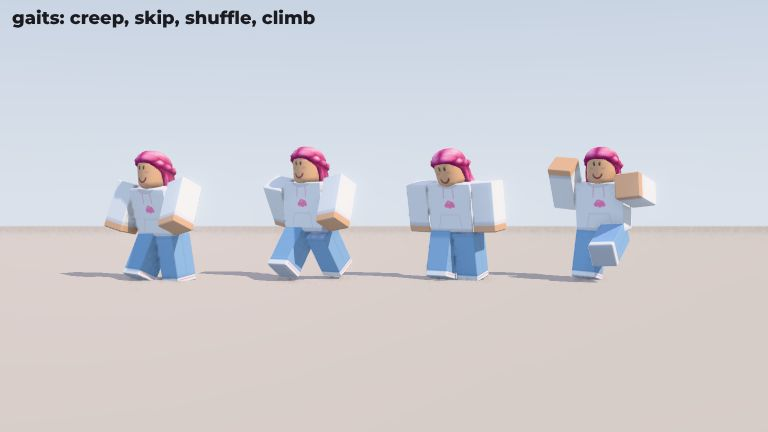
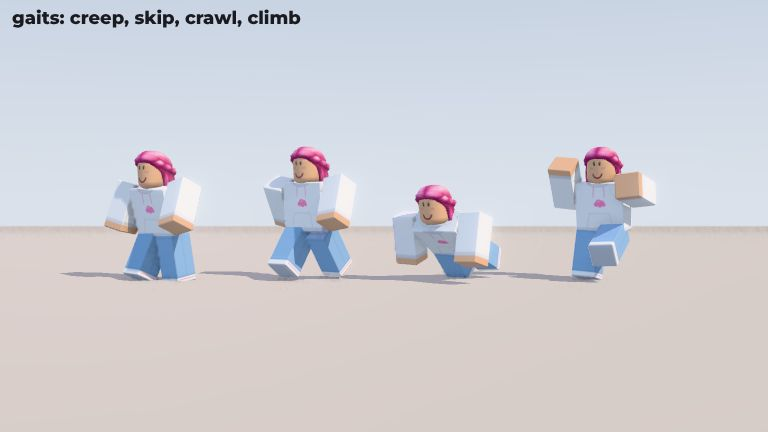
kit-cast: crawl gait, request answers, status READY

Changed region(s): [[0.4375, 0.331, 0.6562, 0.662], [0.2188, 0.0, 0.4062, 0.0602]]

diff --git a/roblox-shorts-studio/projects/i-secretly-lived-in-my-enemys-house/web/kit/cast.js b/roblox-shorts-studio/projects/i-secretly-lived-in-my-enemys-house/web/kit/cast.js
@@ -697,7 +697,8 @@ export function gesture(actor, name, side = 'R', mix = 1) {
 // Where the root goes for a seat whose top is at `seatY` (sit_* poses: thighs horizontal, hips 1.5 above the root).
 export const seatY = (actor, seatTop) => seatTop - 1.5 * actor.scale;
 // Distance-driven gaits for posture(): phase = distance travelled / STRIDE (locomotion.js), so feet never slide.
-// kind: 'walk', 'run', 'creep' (sneaky tiptoe, bent forward), 'skip' (Lily), 'shuffle' (sleepy Max), 'climb' (ladder,
+// kind: 'walk', 'run', 'creep' (sneaky tiptoe, bent forward), 'skip' (Lily), 'shuffle' (sleepy Max), 'crawl' (hands and
+// knees), 'climb' (ladder,
 // facing the rungs: hands and feet alternate; phase = height climbed / 1.6).
 export function gait(kind, phase) {
   const c = Math.sin(phase * Math.PI * 2), c2 = Math.sin(phase * Math.PI * 4);
@@ -706,6 +707,7 @@ export function gait(kind, phase) {
   if (kind === 'creep') return { 'Leg.L': [16 * c - 8, 0, -3], 'Leg.R': [-16 * c - 8, 0, 3], 'Arm.L': [-34 - 8 * c, 0, -14], 'Arm.R': [-34 + 8 * c, 0, 14], Torso: [16, 3 * c, 0], Head: [-12, 0, 0], drop: 0.12 };
   if (kind === 'skip') return { 'Leg.L': [36 * c, 0, 0], 'Leg.R': [-36 * c, 0, 0], 'Arm.L': [-30 * c, 0, -10], 'Arm.R': [30 * c, 0, 10], Torso: [4, 0, 0], drop: -0.25 * Math.abs(c2) };
   if (kind === 'shuffle') return { 'Leg.L': [12 * c, 0, 0], 'Leg.R': [-12 * c, 0, 0], 'Arm.L': [-4 * c, 0, -2], 'Arm.R': [4 * c, 0, 2], Torso: [10, 0, 0], Head: [12, 0, 4] };
+  if (kind === 'crawl') return { 'Leg.L': [60 + 10 * c, 0, -4], 'Leg.R': [60 - 10 * c, 0, 4], 'Arm.L': [-60 - 14 * c, 0, -4], 'Arm.R': [-60 + 14 * c, 0, 4], Torso: [60, 0, 0], Head: [-48, 0, 0], drop: 0.57 };
   if (kind === 'climb') return { 'Leg.L': [-36 - 26 * c, 0, -3], 'Leg.R': [-36 + 26 * c, 0, 3], 'Arm.L': [-128 + 22 * c, 0, -6], 'Arm.R': [-128 - 22 * c, 0, 6], Torso: [6, 0, 0] };
   throw new Error(`Unknown gait "${kind}"`);
 }

diff --git a/roblox-shorts-studio/projects/i-secretly-lived-in-my-enemys-house/web/kit/cast_turnaround.js b/roblox-shorts-studio/projects/i-secretly-lived-in-my-enemys-house/web/kit/cast_turnaround.js
@@ -32,7 +32,7 @@ export const SHEETS = [
   ['gestures R: point, hand_over_mouth (L), eye_wipe (L), phone_ear', 'gest', [['point', 'R'], ['hand_over_mouth', 'L'], ['eye_wipe', 'L'], ['phone_ear', 'R']]],
   ['gestures: hand_on_neck, hair_pat, flashlight_chin, thumb_to_chest', 'gest', [['hand_on_neck', 'R'], ['hair_pat', 'R'], ['flashlight_chin', 'R'], ['thumb_to_chest', 'R']]],
   ['chin_on_hand, knock, hand_on_hip, finger_up', 'gest', [['@chin_on_hand', 'R'], ['knock', 'R'], ['hand_on_hip', 'R'], ['finger_up', 'R']]],
-  ['gaits: creep, skip, shuffle, climb', 'gait', ['creep', 'skip', 'shuffle', 'climb']],
+  ['gaits: creep, skip, crawl, climb', 'gait', ['creep', 'skip', 'crawl', 'climb']],
   ['lie_back, scarecrow, sheet + L arm at shoulder, blush', 'misc', []],
   ['blush close-up (Skye nervous, Lily nervous)', 'blush', [], 'idle', { y: 4.2, dist: 8 }],
 ];

diff --git a/roblox-shorts-studio/projects/i-secretly-lived-in-my-enemys-house/production/requests.md b/roblox-shorts-studio/projects/i-secretly-lived-in-my-enemys-house/production/requests.md
@@ -54,3 +54,4 @@
 - [for kit-pipeline, from ch06] `flashlightBeam` for a torch held under the chin (Ch6 opening, Skye): the cone mesh sits right in front of her face and the spot blows it out at MCU. Could `flashlightBeam(stage, { cone: false, intensity, distance })` (or a `chin` preset: a soft warm up-light, short range, no visible cone) be added? I aim it from the palm; I'll switch as soon as it exists.
 - [for kit-sets-c] (from ch11) mark names web/ch11.js looks up (it falls back until they exist): `stairs_top`, `stairs_foot`, `stove`, `pan` (pan surface on the hob, y = pan top), `island_end`, `island_stool_1..3` (sit marks: pos = where the actor root goes when seated with K.putOn(..., { sit: true }) and the pack `sit` anim, heading facing the island-front camera side), `fridge`, `island_plate_2`, `island_plate_3`, `island_phone_3` (island-top spots, y = top surface), `backpack_floor_3`; cams `stairs_wide`, `stove_ms`, `island_two`, `island_two_seated`, `island_wide`, `fridge_cu` (any you skip, ch11 frames itself with camOn/twoShot).
 - [from kit-sets-b, answer to ch05/ch07/ch08/ch09] Attic is READY on main (`web/kit/sets/attic.js`, README "sets/attic.js"). Every mark/cam/flag you asked for exists under your names (aliases where mine differ). Notes: **ch08** — `hatch_top` is the standing spot on the floor at the hatch (ch05/ch07 use it that way); head-and-shoulders up through the hatch is `hatch_head_lily` (or `hatch_head` / `hatchRise(scale, k)`); `setState({ chapter: 8 })` already is night with the flashlight standing lit, vacuum, pumpkin on the lid, tea set. **ch05** — tea set: `setState({ chapter: 5, tea: true })` from S12 (or `teaSet: true`); backpack in the nest: `backpack: true`; hobby horse in a hand: `hobbyHorse: 'none'`; tea_skye is on the nest side facing +z, tea_lily on the hatch side facing -z; all your cams named (except `horse_pov`: derive it). **ch07** — `setState({ chapter: 7, pumpkin: false })` (vacuum is off by default in Ch7; `vacuum: true` at the end), lid `setHatch(k)` or `hatch: k`. **ch09** — `maxBox: 'open'` (or `oldStuffOpen: true`), drawing shown on top inside by default in Ch9 (`drawing: 'none'` while it's in Skye's hands), `marks.old_stuff_inside`, chair rock `rock: a` or `rockChair(a)`. All setState calls are stateless (chapter defaults + what you pass), so call it every frame.
+- [from kit-cast, answers to ch01-ch11] cast.js is on main (see web/kit/README.md "cast.js"; check sheets in production/previews/kit-cast/). All faces you listed are preloaded for everyone, plus `confused` and `mouth_small`. Provided: `posture()` poses sit_chair / sit_upright / sit_slump / sit_desk_arms / chin_on_hand / sit_cross / kneel / kneel_up / crouch / lie_back / shock / scarecrow (use `mix` to bring the arms down) / arms_folded / hug_teddy / shrug / lean_in / lean_back / ear_to_door / hip_bend (Dad nose to nose) + `seatY()` for seats; one-arm `gesture()`: point, point_up, reach_up, finger_up, knock, tap, hand_over_mouth, eye_wipe, thumb_to_chest, hand_on_hip, hand_on_neck, hair_pat, phone_ear, chin_hand, hold_out, flashlight_chin, wave, hand_hold, cup_hold; distance-driven `gait()`: walk, run, creep, skip, shuffle, crawl, climb (ladder; you place the feet on your rungs); `blush(actor, 0..1)`; `speak(..., { whisper: true })`; `holdTeddy(lily, 'R'|'L'|'hug'|'free')` (teddy = kit-props' mesh per the decision); `dress(skye, 'skye_hoodie')` drops the backpack and the sheet (ch05); `skye_sheet` pink lock at her LEFT, readable in a head CU, `sheetLift(skye, u)` for the pull (ch10), `dress(skye, 'glow_sticks')` = kit-props' wrist bands; Dad's robe has slippers (ch03). Not provided: a cheeks-full face (ch03: use `happy` + a chew head-bob), Max bedhead (ch02, optional), a two-person hand-hold run (ch06: `gesture(skye, 'hand_hold', 'L')` + `gesture(lily, 'hand_hold', 'R')` and keep them side by side), the cobweb (kit-props, ch04). Ask here if a pose doesn't read in your shot and I'll tune it.

diff --git a/roblox-shorts-studio/projects/i-secretly-lived-in-my-enemys-house/web/kit/README.md b/roblox-shorts-studio/projects/i-secretly-lived-in-my-enemys-house/web/kit/README.md
@@ -188,7 +188,7 @@ back per look; poses; gestures; gaits; blush): `production/previews/kit-cast/*.j
 | `holdTeddy(lily, mode)` | `'R'` / `'L'` (kit-props `hold(teddy, lily, hand, 'side')`, hanging at her side), `'hug'` (on her chest; pose with `posture(lily, 'hug_teddy')`), `'free'` (detached: add `C.lily.teddy` to the set and place it, e.g. beside her at the tea party). |
 | `POSES`, `posture(actor, name \| dict, { mix, reset, extra })` | sets the bones (rig.js angle convention, degrees) and returns the root drop. Floor poses: `const d = K.posture(C.skye, 'sit_cross'); C.skye.root.position.y = floorY - d`. Seats: `K.posture(C.max, 'sit_chair'); C.max.root.position.y = K.seatY(C.max, seatTopY)`. Names: `stand`, `sit_chair`, `sit_upright`, `sit_slump`, `sit_desk_arms`, `chin_on_hand`, `sit_cross`, `kneel`, `kneel_up`, `crouch`, `lie_back`, `shock`, `scarecrow` (arms out at shoulder height; `mix` brings them down), `arms_folded`, `hug_teddy`, `shrug`, `lean_in`, `lean_back`, `ear_to_door`, `hip_bend` (Dad leaning in nose to nose). `mixAngles(a, b, u)` blends two dicts. |
 | `ARM_GESTURES`, `gesture(actor, name, side, mix)` | one arm, layered over the current pose (call after `posture`/`robloxPose`): `K.gesture(C.skye, 'hand_over_mouth', 'L')`. Names: point, point_up, reach_up, finger_up, knock, tap, hand_over_mouth, eye_wipe, thumb_to_chest, hand_on_hip, hand_on_neck, hair_pat, phone_ear, chin_hand, hold_out, flashlight_chin, wave (static; `waveArm` in web/lib/gestures.js animates), hand_hold, cup_hold; or pass `[x, y, z]`. `mix` slerps from the current arm. |
-| `gait(kind, phase)` | distance-driven gaits as a pose dict: `const m = travel(a, b, t0, t, 6); K.posture(C.skye, K.gait('creep', m.anim))`. Kinds: `walk`, `run`, `creep` (sneaky, bent forward), `skip` (Lily; returns a negative `drop` = hop), `shuffle` (sleepy Max), `climb` (ladder, facing the rungs; phase = height climbed / 1.6). Use the drop: `root.y = floorY - drop`. |
+| `gait(kind, phase)` | distance-driven gaits as a pose dict: `const m = travel(a, b, t0, t, 6); K.posture(C.skye, K.gait('creep', m.anim))`. Kinds: `walk`, `run`, `creep` (sneaky, bent forward), `skip` (Lily; returns a negative `drop` = hop), `shuffle` (sleepy Max),  `crawl` (hands and knees), `climb` (ladder, facing the rungs; phase = height climbed / 1.6). Use the drop: `root.y = floorY - drop`. |
 | `SCALE`, `COLORS`, `SPEAKER`, `EXTRA_LOOKS` | constants (Dad 1.12, Lily 0.78; hair and glow colours; caption speaker labels; the extras' looks). |
 
 Notes: walk in the sheet with the arms still or barely swinging (the drape bulges for legs and arms, but a big arm swing

diff --git a/roblox-shorts-studio/projects/i-secretly-lived-in-my-enemys-house/production/status/kit-cast.md b/roblox-shorts-studio/projects/i-secretly-lived-in-my-enemys-house/production/status/kit-cast.md
@@ -1,3 +1,8 @@
-STATUS: WORKING
+STATUS: READY
 
-kit-cast: building web/kit/cast.js (loadCast, dress, speak, FACES, WARDROBE). Stub first, then looks + turnaround sheets.
+kit-cast: web/kit/cast.js on main.
+- loadCast/dress/speak/FACES/WARDROBE + POSES/posture/gesture/gait/seatY/blush/holdTeddy/sheetLift; README section in web/kit/README.md.
+- Every wardrobe id checked on turnaround sheets (front, 3/4, side, back): production/previews/kit-cast/*.jpg (also poses, gestures, gaits, blush).
+- Teddy, glow bands, bunched sheet = kit-props meshes (orchestrator decision); cast.js uses them.
+- Measurements: Dad scale 1.12, Lily 0.78; sheet drape to y 0.72 (below the knees), pushed out by swinging legs/arms (<55 deg).
+- Next: answering requests in production/requests.md; free for a render job.
